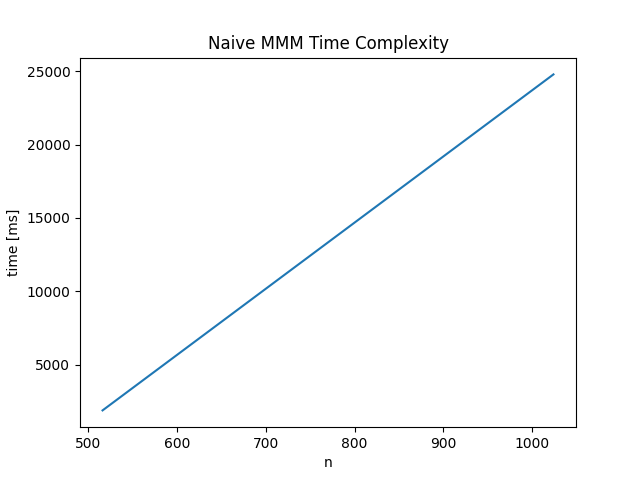
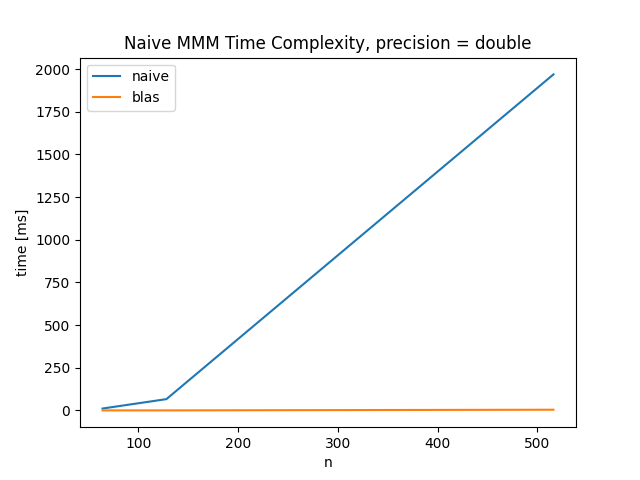
final commit

diff --git a/FM/OpenBlasExperiments/visualize_data.py b/FM/OpenBlasExperiments/visualize_data.py
@@ -7,14 +7,19 @@ df = pd.read_csv ('bello.csv')
 
 
 #####################################################
-# Creating a plot for naive algorithm
+# Creating a plot for naive algorithm 
 n = np.unique(df['n'])
 naive = df[df['AlgorithmID'] == 'naive']
 
+blas = df[df['AlgorithmID'] == 'blas']
+
 
 plt.figure()
-plt.plot(naive['n'], naive['time'])
+plt.plot(naive['n'], naive['time'], label = 'naive')
 plt.xlabel('n')
 plt.ylabel('time [ms]')
-plt.title('Naive MMM Time Complexity')
+plt.title('Naive MMM Time Complexity, precision = double')
+
+plt.plot(blas['n'], blas['time'], label = 'blas')
+plt.legend()
 plt.savefig('naiveplt.png')

diff --git a/FM/OpenBlasExperiments/main.cpp b/FM/OpenBlasExperiments/main.cpp
@@ -1,4 +1,5 @@
 #include <cblas.h>
+#include <cstdlib>
 #include <iostream>
 #include "Matrix.hpp"
 #include "Profiler.hpp"
@@ -70,11 +71,11 @@ int main(int argc, char** argv) {
 
   openblas_set_num_threads(4);
 
-  Profiler p ({516, 1024}); 
+  Profiler p ({64, 128, 516}); 
 
   p.profile(); 
 
+  system("python visualize_data.py");
 
-
-  return 0;
+  return 0; 
 }
